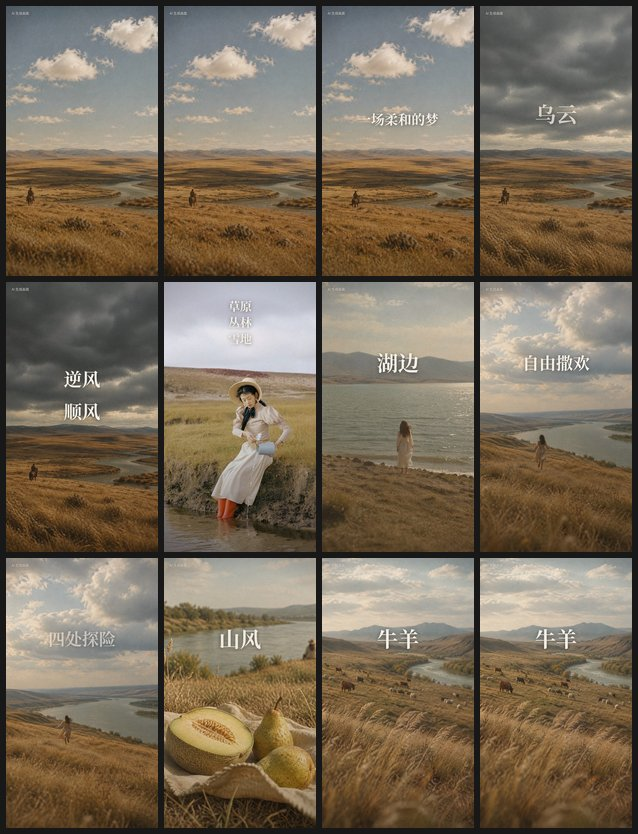
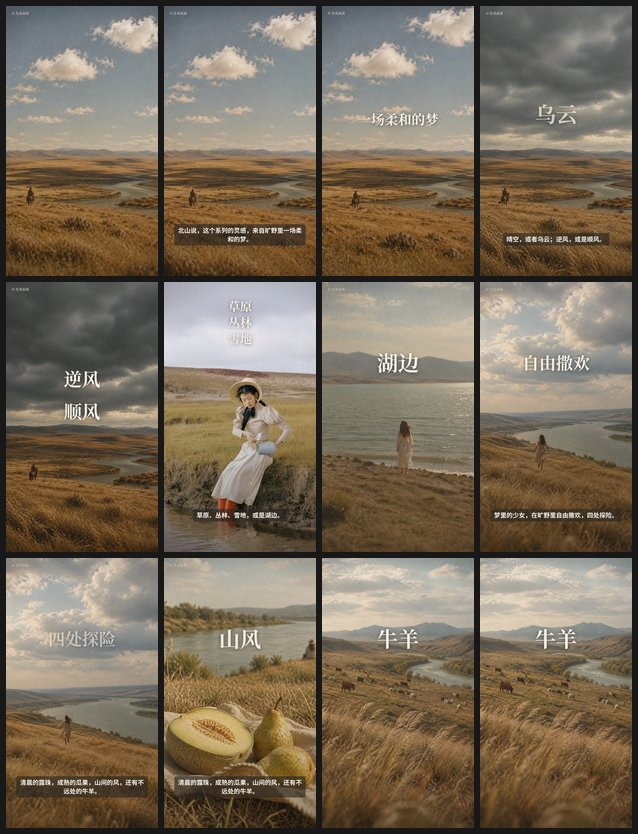
第 3 个案例：前半也出逐句字幕；牛皮剖面的标注挪到方块外侧；回听的 3 句是识别误差，记进 heard，回听 0 句不一致
Claude-Session: https://claude.ai/code/session_01Hy1rvcdz5N2rAwj1fWTUax

diff --git a/cases/shop-handbag/segments/06.js b/cases/shop-handbag/segments/06.js
@@ -120,7 +120,7 @@ scene({
     // 2 牛皮剖面（等距图解）：一块牛皮分成三层，最上面的头层抬起来，表面画出毛孔和纹路
     function hide(c, lt, d) {
       bg(c);
-      const cx = W * .36, cy = H * .42, a = 220 * u, b = 130 * u;           // 等距：x 轴向右下、y 轴向左下
+      const cx = W * .3, cy = H * .42, a = 220 * u, b = 130 * u;           // 等距：x 轴向右下、y 轴向左下
       const iso = (x, y, z) => [cx + (x - y) * a, cy + (x + y) * b * .5 - z];
       const layers = [
         { z0: 0, z1: 70 * u, col: '#B9A58A', name: '下面几层（二层皮等）' },
@@ -143,10 +143,12 @@ scene({
           for (let k = 0; k < 6; k++) { c.beginPath(); for (let j = 0; j <= 20; j++) { const x = j / 20 - .5, y = -.4 + k * .15 + .03 * Math.sin(j * .9 + k); const [px, py] = iso(x, y, z1); j ? c.lineTo(px, py) : c.moveTo(px, py); } c.stroke(); }
         }
         if (L.name) {
-          const [lx, ly] = iso(.5, .5, (z0 + z1) / 2), p = L.top ? smooth(1.6, 2.2, lt) : smooth(2.4, 3, lt);
+          // 引线从右前面中间拉到方块右边外侧，字写在方块外面，不压住方块
+          const [lx, ly] = iso(.5, 0, (z0 + z1) / 2), tx = iso(.5, -.5, 0)[0] + 50 * u, p = L.top ? smooth(1.6, 2.2, lt) : smooth(2.4, 3, lt);
           c.save(); c.globalAlpha = p; c.strokeStyle = K.ink; c.lineWidth = 2 * u;
-          c.beginPath(); c.moveTo(lx, ly); c.lineTo(lx + 60 * u, ly); c.stroke();
-          c.fillStyle = K.ink; c.font = F(L.top ? 700 : 400, L.top ? 40 : 32); c.textBaseline = 'middle'; c.fillText(L.name, lx + 72 * u, ly);
+          c.beginPath(); c.moveTo(lx, ly); c.lineTo(tx - 14 * u, ly); c.stroke();
+          c.fillStyle = K.ink; c.beginPath(); c.arc(lx, ly, 5 * u, 0, TAU); c.fill();
+          c.font = F(L.top ? 700 : 400, L.top ? 40 : 32); c.textBaseline = 'middle'; c.fillText(L.name, tx, ly);
           c.restore();
         }
       }

diff --git a/cases/shop-handbag/segments/common.js b/cases/shop-handbag/segments/common.js
@@ -1,6 +1,6 @@
 // 各段共用：全片统一的色板和字体、镜头表（硬切 / 溶解）、生成视频取帧、胶片质感、关键词大字、逐句字幕、AI 标识。
 // 依赖 samples/lib/lib.js；播放器给的全局 SEG = timing.json 的本段 {seg, title, dur, vo}、TIMING 整支的 timing.json。
-// 每帧只由本段时间 t 决定。全片统一见 README「全片统一」：前半（P1–P5）只出关键词大字、硬切；后半（P6–P10）逐句字幕、段内溶解 0.4 秒。
+// 每帧只由本段时间 t 决定。全片统一见 README「全片统一」：全片逐句字幕；前半（P1–P5）另出关键词大字、硬切，后半（P6–P10）段内溶解 0.4 秒。
 const C = (() => {
   const u = SHORT / 1080;
   // 色板（README「全片统一」）

diff --git a/cases/shop-handbag/segments/02.js b/cases/shop-handbag/segments/02.js
@@ -63,5 +63,6 @@ scene({
     C.word(ctx, t, '瓜果', q('瓜果'), q('山间') - .1, { size: 150, y: .3 });
     C.word(ctx, t, '山风', q('山间'), at.g, { size: 150, y: .3 });
     C.word(ctx, t, '牛羊', q('牛羊'), SEG.dur - 1.6, { size: 150, y: .3 });
+    C.sub(ctx, t);                                      // 逐句字幕（需求方定：前半也出字幕）
   }
 });

diff --git a/cases/shop-handbag/README.md b/cases/shop-handbag/README.md
@@ -22,7 +22,7 @@
 |---|---|
 | 色板 | 从品牌图里取：枯草黄 `#C9A86A`、晴空蓝 `#9DB7C9`、河水灰绿 `#7E8B74`、奶白底 `#F4EFE6`、墨色字 `#2A2622`；强调色只用当段那只包的颜色 |
 | 字体 | 标题思源宋体（衬线，配「旷野」的复古）；数字和正文思源黑体；品牌字 BEISHAN 用图里的原样字标 |
-| 字幕 | 底部三分之一、奶白字加淡阴影，一句一行；前半只在关键词出大字，不跟全句字幕；后半跟旁白逐句 |
+| 字幕 | 底部三分之一、奶白字加淡阴影，一句一行；全片跟旁白逐句（需求方定）；前半另在关键词出大字 |
 | 转场 | 前半硬切；后半段内交叉溶解 0.4 秒，段和段之间硬切（方便拆开混剪） |
 | 配乐 | 一条安静的原声吉他或钢琴（CC0、公共领域或 CC BY），前半压低、叠风声和草叶声；后半音乐稍起，数字上屏时一声轻的「嗒」 |
 | 旁白 | 公开女声、语速 1.0（`script.json` 的 `voice`），先试听 2–3 个再定，全片一个 |
